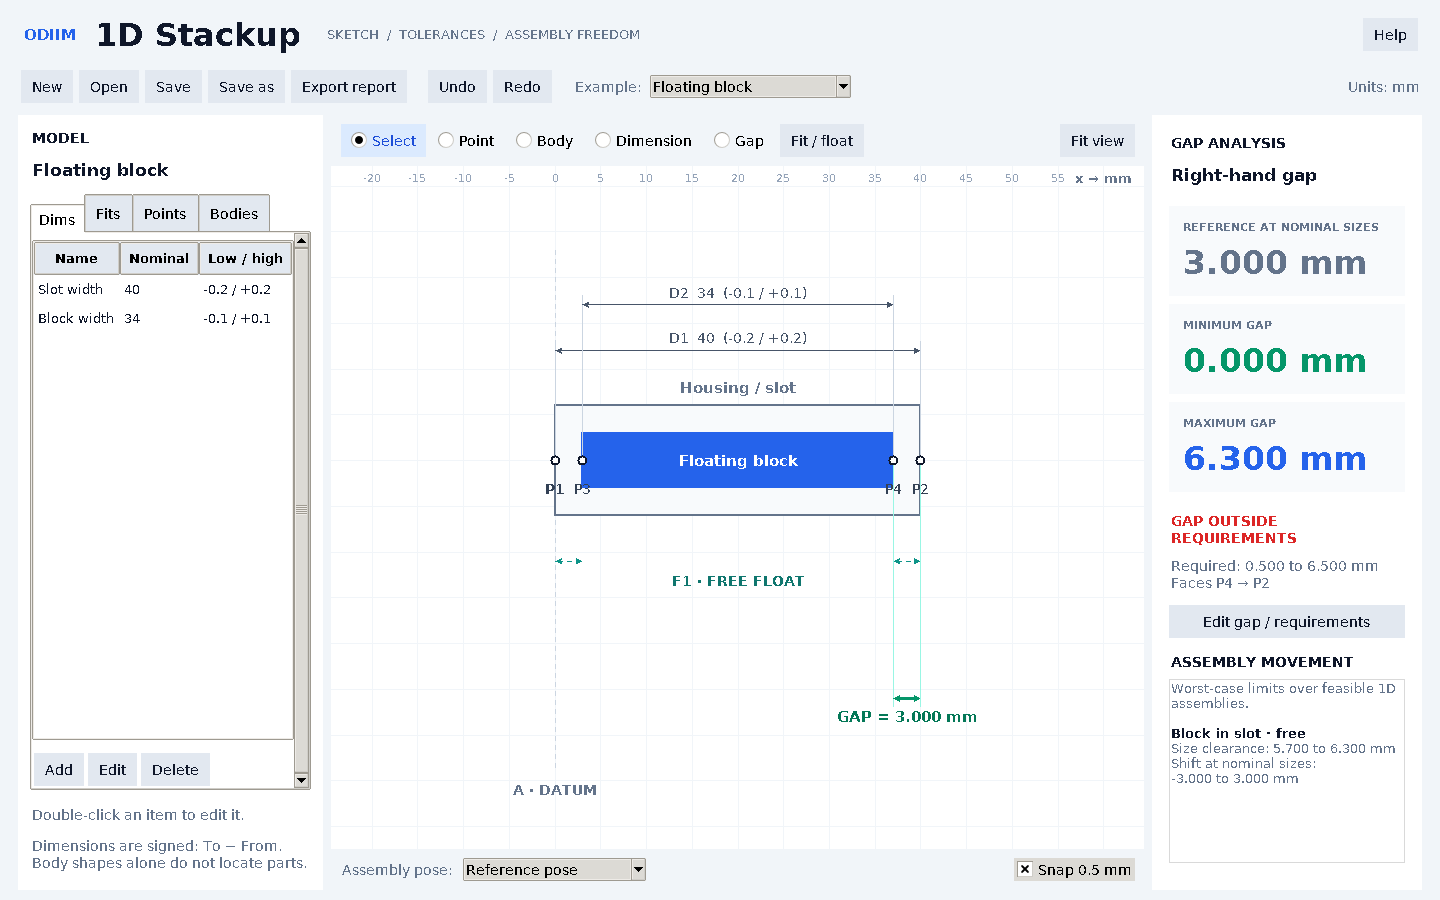
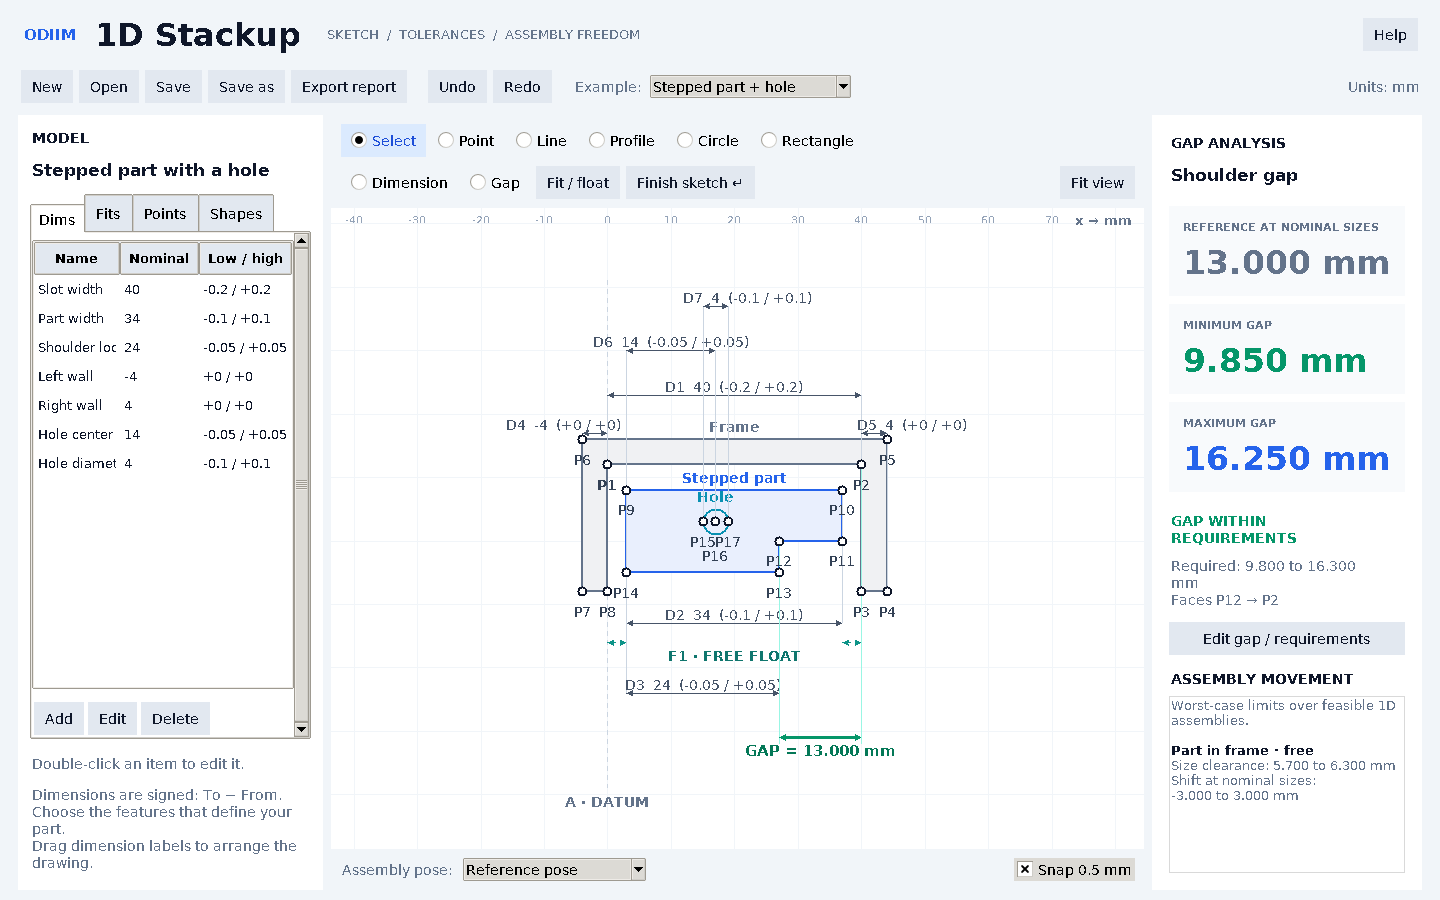
Show custom sketching in the desktop preview

diff --git a/assets/README.md b/assets/README.md
@@ -1,4 +1,5 @@
 # App preview
 
-`preview.png` shows the native Python desktop interface with the floating-block
-example. The main project README contains the setup and usage instructions.
+`preview.png` shows the native Python desktop interface with a custom stepped
+part, a hole, freely placed dimensions and assembly movement inside a frame.
+The main project README contains the setup and usage instructions.
